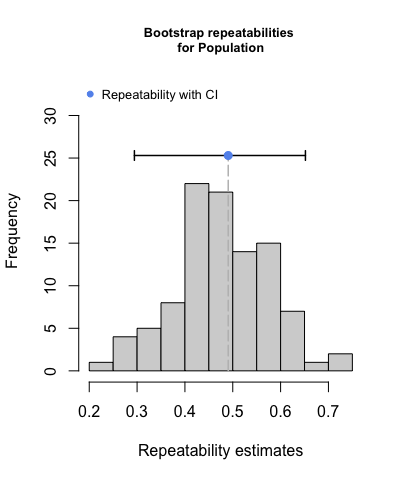
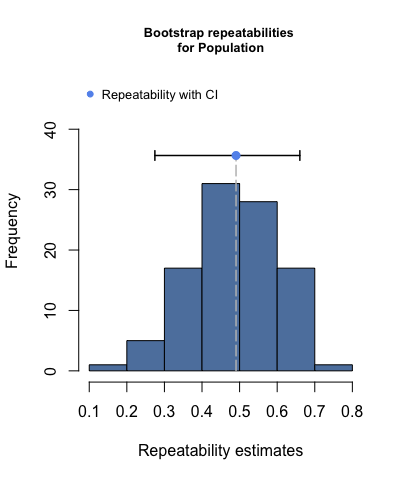
readme finetuning

diff --git a/README.md b/README.md
@@ -19,7 +19,7 @@ permutation test estimates.
 
 ### Citation
 
-When using \`rptR\`\`, please cite our
+When using `rptR`, please cite our
 [paper](https://besjournals.onlinelibrary.wiley.com/doi/10.1111/2041-210X.12797):
 
 Stoffel, M. A., Nakagawa, S., & Schielzeth, H. (2017). rptR:
@@ -54,9 +54,6 @@ data(BeetlesBody)
 rpts <- rpt(BodyL ~ Treatment + Sex + (1 | Container) + (1 | Population), 
             grname = c("Container", "Population"), data = BeetlesBody, 
             datatype = "Gaussian", nboot = 100, npermut = 100)
-#> Bootstrap Progress:
-#> Permutation Progress for Container :
-#> Permutation Progress for Population :
 ```
 
 ``` r
@@ -73,12 +70,12 @@ summary(rpts)
 #> 
 #> Repeatability estimation overview: 
 #>       R     SE   2.5%  97.5% P_permut  LRT_P
-#>  0.0834  0.025 0.0452  0.132     0.01      0
+#>  0.0834 0.0259 0.0422  0.144     0.01      0
 #> 
 #> Bootstrapping and Permutation test: 
 #>             N    Mean   Median   2.5%  97.5%
-#> boot      100 0.08772 0.084018 0.0452 0.1321
-#> permut    100 0.00463 0.000405 0.0000 0.0238
+#> boot      100 0.08221 0.077582 0.0422 0.1441
+#> permut    100 0.00464 0.000422 0.0000 0.0246
 #> 
 #> Likelihood ratio test: 
 #> logLik full model = -1528.553
@@ -92,12 +89,12 @@ summary(rpts)
 #> 
 #> Repeatability estimation overview: 
 #>       R     SE   2.5%  97.5% P_permut  LRT_P
-#>   0.491 0.0978  0.294  0.652     0.04      0
+#>   0.491  0.113  0.275   0.66     0.01      0
 #> 
 #> Bootstrapping and Permutation test: 
 #>             N   Mean Median   2.5%  97.5%
-#> boot      100  0.477  0.472  0.294  0.652
-#> permut    100  0.452  0.455  0.419  0.492
+#> boot      100  0.484  0.484  0.275  0.660
+#> permut    100  0.454  0.454  0.415  0.485
 #> 
 #> Likelihood ratio test: 
 #> logLik full model = -1528.553
@@ -110,20 +107,8 @@ summary(rpts)
 #### Plotting
 
 ``` r
-plot(rpts, grname="Container", type="boot", cex.main=0.8, color = "#5E81AC")
-#> Warning in plot.window(xlim, ylim, "", ...): "color" is not a graphical
-#> parameter
-#> Warning in title(main = main, sub = sub, xlab = xlab, ylab = ylab, ...): "color"
-#> is not a graphical parameter
-#> Warning in axis(1, ...): "color" is not a graphical parameter
-#> Warning in axis(2, ...): "color" is not a graphical parameter
-plot(rpts, grname="Population", type="boot", cex.main=0.8, color = "#5E81AC")
-#> Warning in plot.window(xlim, ylim, "", ...): "color" is not a graphical
-#> parameter
-#> Warning in title(main = main, sub = sub, xlab = xlab, ylab = ylab, ...): "color"
-#> is not a graphical parameter
-#> Warning in axis(1, ...): "color" is not a graphical parameter
-#> Warning in axis(2, ...): "color" is not a graphical parameter
+plot(rpts, grname="Container", type="boot", cex.main=0.8, col = "#5E81AC")
+plot(rpts, grname="Population", type="boot", cex.main=0.8, col = "#5E81AC")
 ```
 
 ![](README-gaussian-1.png)![](README-gaussian-2.png)
